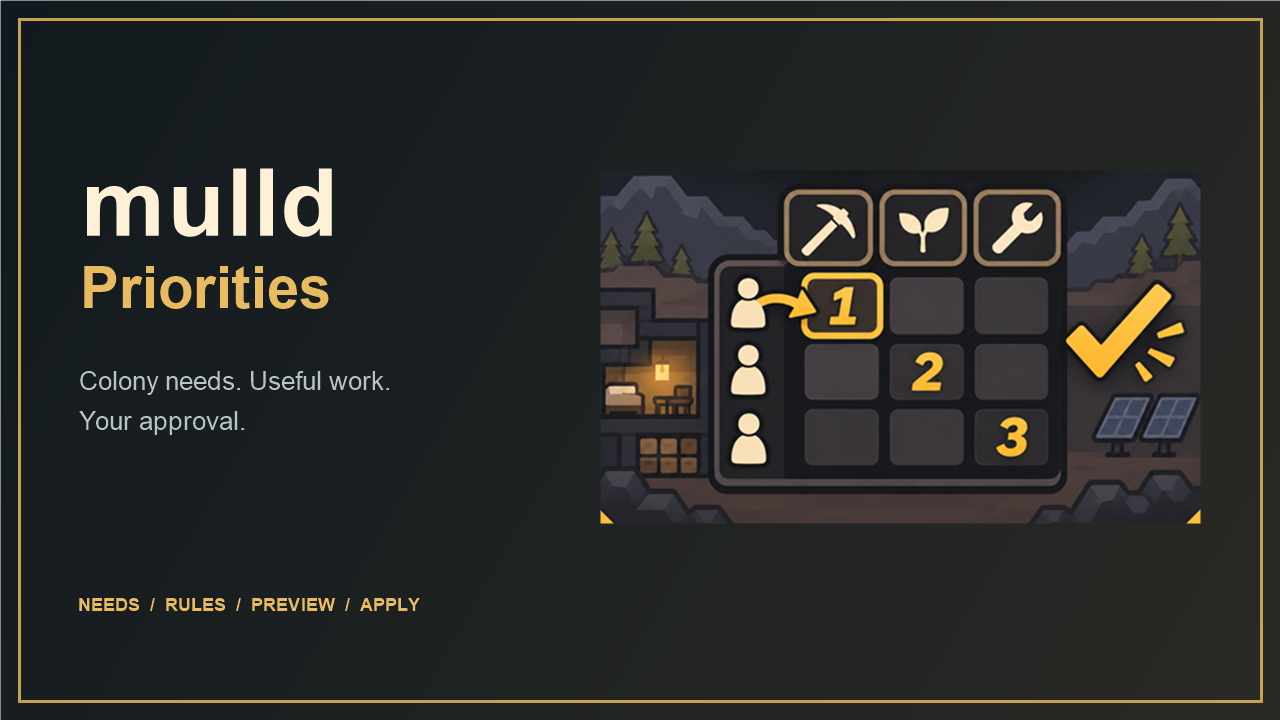
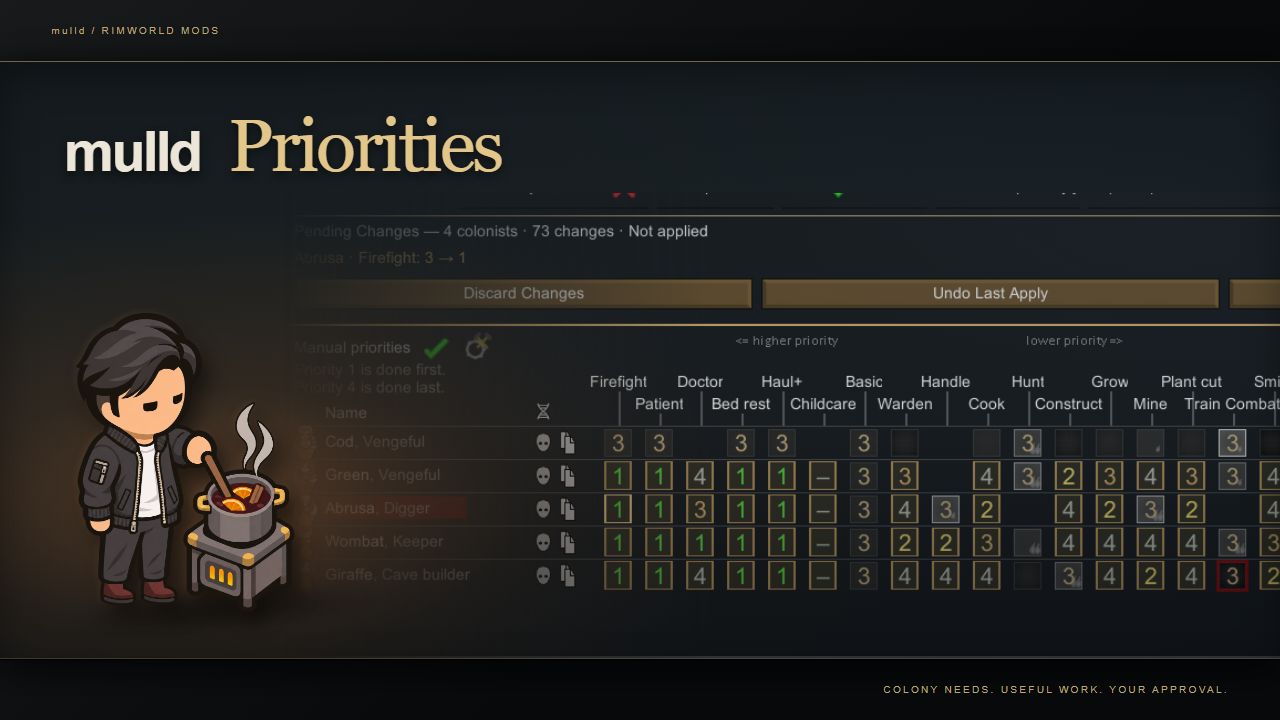
Publish Cinema edition branding and clear Workshop guide

diff --git a/docs/workshop/cover.html b/docs/workshop/cover.html
@@ -1,0 +1,87 @@
+<!doctype html><html><head><meta charset="utf-8"><style>html,body{margin:0;width:100%;overflow:hidden;background:#090b0c}</style></head><body><div id="mulld-frames"  aria-label="Warm corner framing variations">
+
+<section data-variant="Cinema edition"><div class="mf-frame mf-cinema" aria-label="Cinema edition"><div class="mf-art"></div><div class="mf-trim"></div><span class="mf-label">mulld / RIMWORLD MODS</span><span class="mf-footer">COLONY NEEDS. USEFUL WORK. YOUR APPROVAL.</span></div></section>
+
+
+
+</div>
+<template id="mf-original"><div class="mm-cover mm-warm"><div class="mm-grid"><img class="mm-real" alt="Real in-game work priorities"></div><header><b>mulld</b><h2>Priorities</h2></header><img class="mm-pawn" alt="Asian mulld mascot with visible legs in an open black bomber jacket over a white shirt stirring mulled wine"><small>A LITTLE ORDER. A BETTER COLONY.</small></div></template>
+<style>
+#mulld-frames .mm-cover{width:100%;aspect-ratio:16/9;position:relative;overflow:hidden;container-type:inline-size;background:#14191c;color:#ece6d8;font-family:Arial,sans-serif}
+#mulld-frames header{position:absolute;z-index:3;left:5%;top:7%}
+#mulld-frames b{font:700 4.4cqw/1 Arial;letter-spacing:-.22cqw}
+#mulld-frames h2{font:400 7.4cqw/1.05 Georgia;margin:.8cqw 0 0;color:#e3c68a;letter-spacing:-.25cqw}
+#mulld-frames .mm-grid{position:absolute;inset:0 0 0 29%;overflow:hidden;mask-image:linear-gradient(90deg,transparent,#000 40%);opacity:.85}
+#mulld-frames .mm-real{position:absolute;width:155%;max-width:none;left:0;bottom:-6%;height:auto}
+#mulld-frames .mm-pawn{position:absolute;z-index:2;width:28%;height:auto;left:4%;bottom:4%;filter:drop-shadow(0 1cqw 1.3cqw #0005)}
+#mulld-frames small{position:absolute;z-index:4;font:400 .9cqw/1.3 Arial;letter-spacing:.15cqw;color:#baad91;left:5%;bottom:3%}
+#mulld-frames .mm-maker .mm-pawn{bottom:8%;width:25%;left:4%}
+#mulld-frames .mm-signature header{left:5%;top:9%}
+#mulld-frames .mm-signature b{font-size:6cqw}
+#mulld-frames .mm-signature h2{font:400 5cqw/1.1 Arial;letter-spacing:-.15cqw}
+#mulld-frames .mm-signature .mm-pawn{width:19%;left:5%;bottom:12%}
+#mulld-frames .mm-signature .mm-grid{left:19%;mask-image:linear-gradient(90deg,transparent,#000 48%)}
+#mulld-frames .mm-signature small{bottom:7%}
+#mulld-frames .mm-warm{background:radial-gradient(ellipse at 16% 78%,#473023 0%,#14191c 44%)}
+#mulld-frames .mm-warm header{left:5%;top:6%;display:flex;align-items:baseline;gap:2.2cqw}
+#mulld-frames .mm-warm h2{font-size:5.8cqw}
+#mulld-frames .mm-warm .mm-grid{top:22%;left:22%;mask-image:linear-gradient(90deg,transparent,#000 47%)}
+#mulld-frames .mm-warm .mm-real{width:142%;bottom:-8%}
+#mulld-frames .mm-warm .mm-pawn{width:30%;left:1%;bottom:7%}
+#mulld-frames .mm-host header{left:5%;top:7%}
+#mulld-frames .mm-host h2{font-size:6.8cqw}
+#mulld-frames .mm-host .mm-pawn{left:-2%;width:33%;bottom:-8%}
+#mulld-frames .mm-host .mm-grid{left:30%;mask-image:linear-gradient(90deg,transparent,#000 26%)}
+#mulld-frames .mm-host small{left:auto;right:4%;bottom:4%}
+#mulld-frames .mm-ritual header{left:5%;top:9%}
+#mulld-frames .mm-ritual b{font-size:3.6cqw}
+#mulld-frames .mm-ritual h2{font-size:8cqw;margin-top:1.4cqw}
+#mulld-frames .mm-ritual .mm-grid{left:24%;top:16%;opacity:.65;mask-image:linear-gradient(90deg,transparent,#000 60%)}
+#mulld-frames .mm-ritual .mm-real{width:170%;bottom:-5%}
+#mulld-frames .mm-ritual .mm-pawn{width:21%;left:7%;bottom:9%}
+#mulld-frames .mm-ritual small{bottom:5%;left:6%}
+</style>
+<style>
+#mulld-frames .mf-frame{position:relative;aspect-ratio:16/9;width:100%;overflow:hidden;container-type:inline-size;background:#101416;--frame-accent:#bda678}
+#mulld-frames .mf-art{position:absolute;inset:0}
+#mulld-frames .mf-art .mm-cover{width:100%;height:100%;aspect-ratio:auto}
+#mulld-frames .mf-trim{position:absolute;pointer-events:none;z-index:6}
+#mulld-frames .mf-label,#mulld-frames .mf-footer{position:absolute;z-index:7;font:400 .9cqw/1 Arial;letter-spacing:.17cqw;color:var(--frame-accent)}
+#mulld-frames .mf-hairline .mf-art{inset:1.5%}
+#mulld-frames .mf-hairline .mf-trim{inset:2.7%;border:1px solid var(--frame-accent);border-radius:.35cqw}
+#mulld-frames .mf-hairline .mm-cover small{bottom:4%}
+#mulld-frames .mf-cinema{background:#090b0c}
+#mulld-frames .mf-cinema .mf-art{inset:8.5% 0}
+#mulld-frames .mf-cinema .mf-trim{inset:8.5% 0;border-top:1px solid #a58c5d80;border-bottom:1px solid #a58c5d80}
+#mulld-frames .mf-cinema .mf-label{left:4%;top:3.6%;font-size:.8cqw}
+#mulld-frames .mf-cinema .mf-footer{bottom:3.5%;right:4%;font-size:.8cqw}
+#mulld-frames .mf-cinema .mm-cover small{visibility:hidden}
+#mulld-frames .mf-cinema .mm-pawn{width:26%}
+#mulld-frames .mf-gallery{background:#e6e1d6}
+#mulld-frames .mf-gallery .mf-art{inset:3% 2.2% 10%;box-shadow:0 0 0 1px #fff8}
+#mulld-frames .mf-gallery .mf-label{bottom:3.1%;left:3%;font:700 1.8cqw/1 Arial;letter-spacing:-.08cqw;color:#2e3533}
+#mulld-frames .mf-gallery .mf-footer{right:3%;bottom:3.6%;font-size:.8cqw;color:#535b56}
+#mulld-frames .mf-gallery .mm-cover small{visibility:hidden}
+#mulld-frames .mf-corners .mf-art{inset:2%}
+#mulld-frames .mf-corners .mf-trim{inset:2%;background:linear-gradient(var(--frame-accent),var(--frame-accent)) left top/7% 2px no-repeat,linear-gradient(var(--frame-accent),var(--frame-accent)) left top/2px 12% no-repeat,linear-gradient(var(--frame-accent),var(--frame-accent)) right top/7% 2px no-repeat,linear-gradient(var(--frame-accent),var(--frame-accent)) right top/2px 12% no-repeat,linear-gradient(var(--frame-accent),var(--frame-accent)) left bottom/7% 2px no-repeat,linear-gradient(var(--frame-accent),var(--frame-accent)) left bottom/2px 12% no-repeat,linear-gradient(var(--frame-accent),var(--frame-accent)) right bottom/7% 2px no-repeat,linear-gradient(var(--frame-accent),var(--frame-accent)) right bottom/2px 12% no-repeat}
+#mulld-frames .mf-binding{background:#402326}
+#mulld-frames .mf-binding .mf-art{inset:1.7% 1% 1.7% 5%}
+#mulld-frames .mf-binding .mf-trim{inset:1.7% 1% 1.7% 5%;border:1px solid #aa8d58}
+#mulld-frames .mf-binding .mf-label{left:1.4%;bottom:7%;writing-mode:vertical-rl;transform:rotate(180deg);font:700 1.6cqw/1 Arial;letter-spacing:-.06cqw;color:#dfc99e}
+</style>
+<style>
+#mulld-frames .mf-cinema{background:linear-gradient(135deg,#181a1c,#080a0c 60%)}
+#mulld-frames .mf-cinema .mf-art{box-shadow:0 1.2cqw 2.8cqw #0009,0 -.4cqw 1.8cqw #0005}
+#mulld-frames .mf-cinema .mm-cover{background:radial-gradient(ellipse at 18% 76%,#60412a 0%,#302820 20%,#171d20 48%,#10171b 100%)}
+#mulld-frames .mf-cinema .mm-cover::before{content:"";position:absolute;z-index:1;left:5%;bottom:4%;width:25%;height:8%;background:radial-gradient(ellipse,#080908b3,transparent 70%);filter:blur(.5cqw);transform:rotate(-5deg)}
+#mulld-frames .mf-cinema .mm-cover::after{content:"";position:absolute;z-index:1;inset:0;pointer-events:none;background:linear-gradient(180deg,#0000 60%,#070a0d66),radial-gradient(ellipse at 91% 28%,#52677918,transparent 60%);box-shadow:inset 0 1cqw 3cqw #0005}
+#mulld-frames .mf-cinema header{text-shadow:0 .35cqw .7cqw #0008}
+#mulld-frames .mf-cinema .mm-pawn{filter:drop-shadow(.7cqw .9cqw .7cqw #0008) drop-shadow(-.15cqw -.1cqw .25cqw #e1b57c15)}
+#mulld-frames .mf-cinema .mm-grid{opacity:.82;mask-image:linear-gradient(90deg,transparent,#000 43%)}
+#mulld-frames .mf-cinema .mf-trim{border-top-color:#d6b77c80;border-bottom-color:#8c744e60;box-shadow:0 1px 0 #000}
+
+</style>
+<script>
+(()=>{const root=document.getElementById('mulld-frames');const template=document.getElementById('mf-original');const screenshot='../screenshots/work-preview.png';const mascot='mascot.png';root.querySelectorAll('.mf-art').forEach(el=>el.append(template.content.cloneNode(true)));root.querySelectorAll('.mm-real').forEach(el=>el.src=screenshot);root.querySelectorAll('.mm-pawn').forEach(el=>el.src=mascot);if(globalThis.Tweak){root.querySelectorAll('.mf-frame').forEach(el=>{const state={accent:'#bda678'};new Tweak({container:el,onChange:()=>el.style.setProperty('--frame-accent',state.accent)}).addColorPicker(state,'accent',{label:'Frame accent'});});}})();
+</script>
+</body></html>

diff --git a/docs/workshop/README.md b/docs/workshop/README.md
@@ -12,7 +12,7 @@ Upload through RimWorld’s Mods menu. Preserve the generated `About/PublishedFi
 
 ## Illustrated description
 
-`description-preview.png` is a local layout preview, not a capture of a published Steam page. The four real-game crops in `images/` are all **640 × 144**. The description uses publicly accessible GitHub raw image URLs, verified before upload. The GitHub source link is included. Visibility: Public.
+The description uses three real-game crops with a consistent **1280-pixel width**, pinned public GitHub image URLs, and a GitHub source link. The approved layout is **01 // Features**, **02 // How to open**, and **03 // Dependencies & Requirements**. Visibility: Public.
 
 
 
@@ -25,5 +25,5 @@ Visibility: Public. Illustrated description and Harmony required item verified. 
 
 ## Colony Briefing refresh
 
-Access instructions are included in both the Workshop description and in-game metadata. Description crops share a 1280-pixel width and come from the same capture; image URLs are pinned to an asset commit to avoid stale cached images. The 1280x720 local cover requires a game restart to replace the running game's cached square preview. Uploading the updated mod/cover is pending the Steam Workshop terms confirmation; the description has already been updated independently.
+Access instructions are included in both the Workshop description and in-game metadata. Description crops share a 1280-pixel width and come from the same capture; image URLs are pinned to an asset commit to avoid stale cached images. The approved Cinema edition cover is 1280x720 and shared with the in-game preview. Restart RimWorld after replacing preview assets so the uploader and Mods menu use fresh metadata. After uploading through the game, restore `description.txt` in the Workshop editor: the native uploader can replace rich text with the in-game description.
 

diff --git a/docs/workshop/THUMBNAIL.md b/docs/workshop/THUMBNAIL.md
@@ -2,6 +2,8 @@
 
 `About/Preview.png` is a 1280 × 720 landscape cover shared by the in-game mod preview and Steam. It is under 1 MB. The original square identity artwork is retained as `docs/workshop/brand-square.png`.
 
-Run `tools/Build-WorkshopAssets.ps1` to rebuild the wide cover and consistent real-game screenshot crops. Optional `-MockOutput` writes four layout alternatives outside the release folders.
+Run `tools/Build-WorkshopAssets.ps1` to render the approved Cinema edition from `cover.html` using headless Microsoft Edge and rebuild the real-game screenshot crops. Pass `-BrowserPath` for another Chromium browser. Temporary browser profiles and logs stay in ignored `artifacts/`.
 
-The square illustration was generated with the built-in imagegen tool: lowercase “mulld”, capitalized “Priorities”, charcoal/cream/gold, a pawn work grid, priority numbers and a checkmark. The landscape composition and typography are built from that artwork without stretching the game screenshots.
+The approved cover uses the real `docs/screenshots/work-preview.png` capture, lowercase “mulld”, capitalized “Priorities”, charcoal/gold lettering, cinematic bars and subtle depth. `mascot.png` is a transparent original illustration generated with the built-in imagegen tool: an Asian man mulling wine, wearing an open black bomber jacket, white shirt, charcoal trousers and simplified flat oxblood boots. The character's visible legs, wine pot, stove and steam are preserved. The screenshot is never generated or redrawn.
+
+Final mascot prompt: simplify only the boots to chunky flat oxblood ankle boots with bold outlines, one shadow plane and dark soles; no laces, stitching, leather texture or glossy highlights. Preserve the character, clothing, pose, pot and transparent background. Cover composition and typography are deterministic HTML/CSS.

diff --git a/CHANGELOG.md b/CHANGELOG.md
@@ -2,6 +2,9 @@
 
 ## 0.4.1 — 2026-11-14
 
+- Refresh the Workshop and in-game preview with the approved Cinema edition cover, a real work-grid capture and the mulld wine-making mascot.
+- Organize the Workshop description into Features, How to open, and Dependencies & Requirements; include access instructions in-game.
+
 - Standardize the repository, installed folder, release packages and GitHub destination as mulldPriorities.
 - Migrate the legacy installed folder and preserve its Mod Settings under the corrected folder name.
 - Rewrite the README with real in-game screenshots and move detailed developer instructions into docs/DEVELOPMENT.md.

diff --git a/README.md b/README.md
@@ -1,5 +1,7 @@
 # mulld Priorities
 
+![mulld Priorities — Cinema edition](About/Preview.png)
+
 **See what your colony needs. Give your pawns useful work. Review before applying.**
 
 A RimWorld 1.7 mod built into the Work tab.
